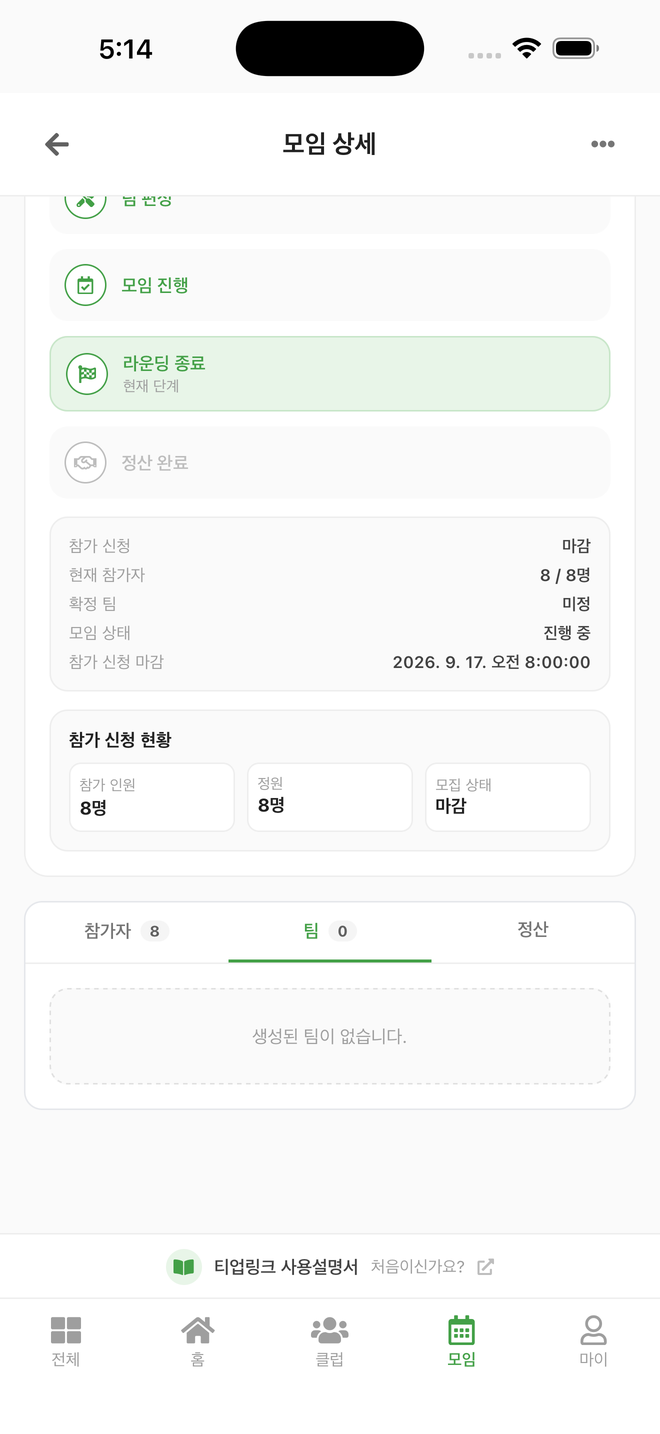
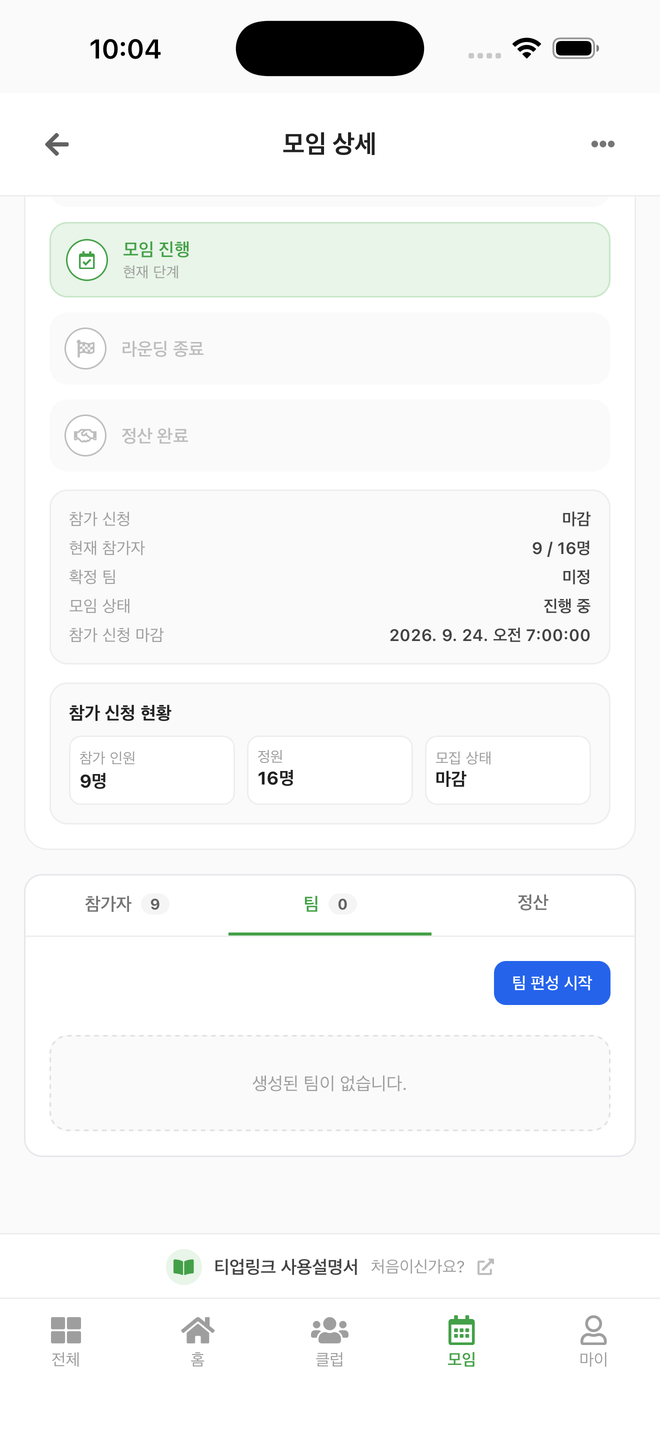
docs: 팀 편성 절차 캡처 5장 추가 및 §3-3 재작성
실제 동작을 확인하고 다시 썼다.

- 팀 탭이 열리는 조건을 표로 정리했다 (라운딩 / 참가자 4명 이상 / 신청 마감)
- [팀 편성 시작] 을 누르면 편성 조건 창이 먼저 뜬다 — 이 단계가 빠져 있었다
- 편성 수정 창의 실제 조작(→ 이동, 휴지통, 연필, + 새 팀 추가)으로 고쳤다
- [편성 히스토리] 는 편성 기록이 있을 때만 나온다

diff --git a/md/teeup-user-guide.md b/md/teeup-user-guide.md
@@ -254,14 +254,59 @@
 
 **팀 편성** — 라운딩 전에 운영진이 조를 짭니다.
 
-![팀 탭](guide/25-team-tab.png)
-
 모임 상세를 아래로 내리면 **참가자 / 팀 / 정산** 탭이 있습니다. **팀** 탭을 누르면 편성된 조가 보입니다.
 
-- 아직 조가 없으면 **생성된 팀이 없습니다** 로 나옵니다
-- 운영진에게는 **[팀 편성 시작]** 버튼이 뜹니다. 누르면 편성 화면이 열리고, 거기서 **새 팀 추가**로 조를 만들고 **미할당 참가자 추가**로 배정합니다
-- 한 번 짜고 나면 버튼이 **[다시 편성하기]** 로 바뀌고, 옆에 **[편성 히스토리]** 가 생깁니다
-- 모임 시각이 지났거나 취소·정산 확정된 모임은 편성 버튼이 보이지 않습니다 (위 캡처가 그 경우입니다)
+![팀 탭](guide/25-team-tab.png)
+
+아직 조가 없으면 **생성된 팀이 없습니다** 로 나오고, 운영진에게만 **[팀 편성 시작]** 버튼이 보입니다.
+
+**팀 탭이 열리는 조건** — 아래를 모두 만족해야 합니다. 하나라도 어긋나면 팀 탭이 비활성으로 보입니다.
+
+| 조건 | 설명 |
+|---|---|
+| 라운딩 모임 | 소셜 모임에는 팀 편성이 없습니다 |
+| 참가자 4명 이상 | 3명 이하면 조를 짤 수 없습니다 |
+| 신청 마감됨 | 마감 시각이 지났거나 **[신청 마감하기]** 를 눌렀을 때 |
+
+편성 버튼은 여기에 더해 **운영진(리더·매니저)** 이고 **모임 시각이 아직 안 지났을 때**만 뜹니다. 취소되었거나 정산이 확정된 모임에서도 사라집니다.
+
+**1단계 — 편성 조건 고르기**
+
+**[팀 편성 시작]** 을 누르면 조건 창이 먼저 뜹니다.
+
+![팀 편성 조건](guide/26-team-formation-modal.png)
+
+| 항목 | 설명 |
+|---|---|
+| 편성 조건 | 성별 분리/혼합 × 핸디캡·직전대회 성적·랜덤, 6가지 |
+| 팀 인원 | 한 조에 몇 명씩 넣을지 (기본 4) |
+| 일괄 비교 | 여러 조건으로 짠 결과를 한 번에 비교해 봅니다 |
+
+**2단계 — 결과 확인**
+
+편성이 끝나면 팀 탭에 조별 명단이 나옵니다.
+
+![팀 편성 결과](guide/27-team-result.png)
+
+조 이름 옆에 인원수가, 각 멤버에는 성별이 함께 표시됩니다. 버튼은 **[다시 편성하기]** 로 바뀝니다. 편성을 한 번이라도 돌리고 나면 옆에 **[편성 히스토리]** 가 생겨서 지난 편성 결과를 다시 볼 수 있습니다.
+
+**3단계 — 손으로 고치기**
+
+**[다시 편성하기]** 를 누르면 **팀 편성 수정** 창이 열립니다. 자동 편성 결과를 그대로 쓰지 않고 손으로 바꿀 때 씁니다.
+
+![팀 편성 수정](guide/28-team-editor.png)
+
+맨 위 **미할당 참가자** 칸에 아직 조에 못 들어간 사람이 모입니다. 조마다 **총 핸디**가 같이 보여서 조별 전력을 맞추기 좋습니다.
+
+- 멤버 오른쪽 **→** 를 누르면 다른 조로 옮깁니다
+- **휴지통**을 누르면 그 멤버를 미할당으로 빼거나, 조 전체를 지웁니다
+- 조 이름 옆 **연필**로 이름을 바꿉니다 (1조, 2조 … 를 A조, B조 같은 식으로)
+
+![새 팀 추가](guide/29-team-editor-bottom.png)
+
+맨 아래 **+ 새 팀 추가**로 조를 하나 더 만들고, 다 고쳤으면 **[저장]** 을 누릅니다. **[취소]** 로 나가면 바뀐 내용은 버려집니다.
+
+> 티업 시간이 지나면 편성을 더 이상 고칠 수 없습니다.
 
 ### 3-4. 모임 상세 — 완료
 
